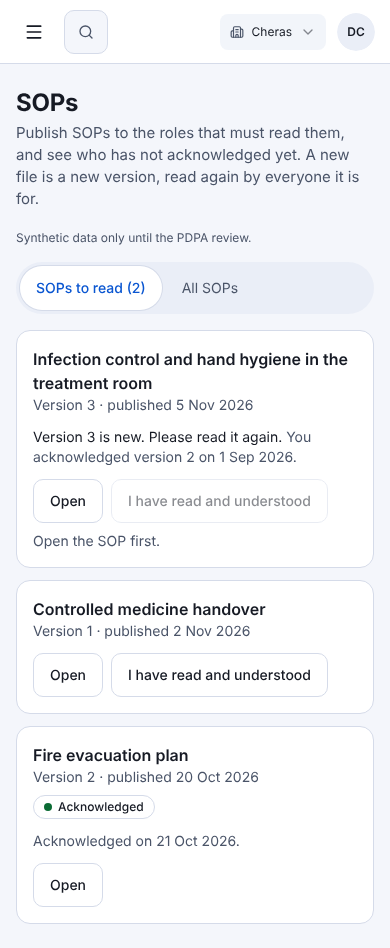
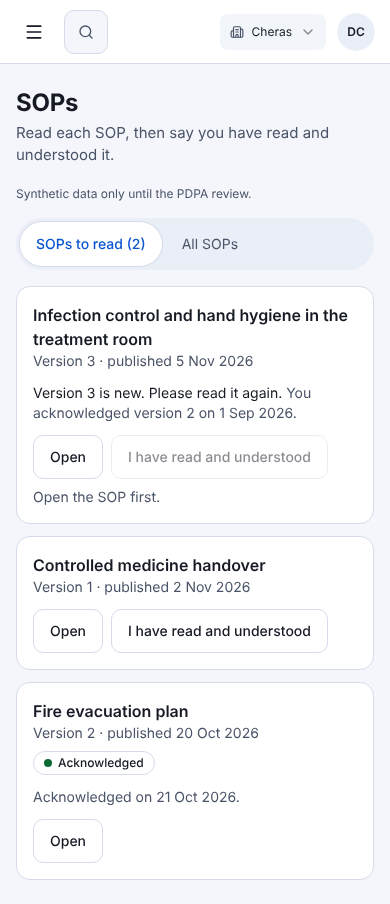
Evidence: V2 HR SOPs shots after Daniel's look

diff --git a/docs/validation/v2-hr-sops/README.md b/docs/validation/v2-hr-sops/README.md
@@ -1,3 +1,5 @@
 # V2 HR SOPs (feature/v2-hr-sops)
 
 Synthetic data only, `.test` account, no real files (no PDF is loaded). Shots at 1440 and 390 px, light and dark: `my` (SOPs to read: a new version, one still to open, one acknowledged), `myEmpty`, `manage` (All SOPs), `manageDetails` (Who hasn't acknowledged, with a long name), `manageEmpty`, `publish` (dialog, empty, Publish faded with its reason) and `withdraw` (red confirm). No horizontal scroll and no external request. One small-target flag at 390 in the publish dialog is under review.
+
+After Daniel's look: SOPs to read now says "Read each SOP, then say you have read and understood it."; the manager sentence is on All SOPs only. Open in Versions and Withdrawn is an outline button (44 px below 1024). Shots retaken. Classic compare: 28 states at 390 and 1440, light and dark, 0 differing pixels (see PR #872).
